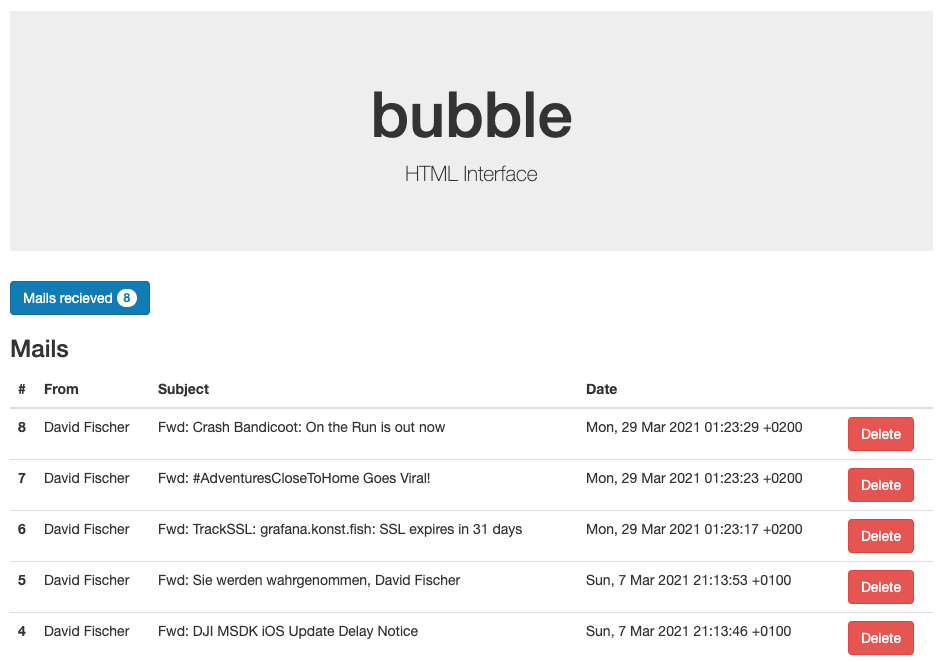
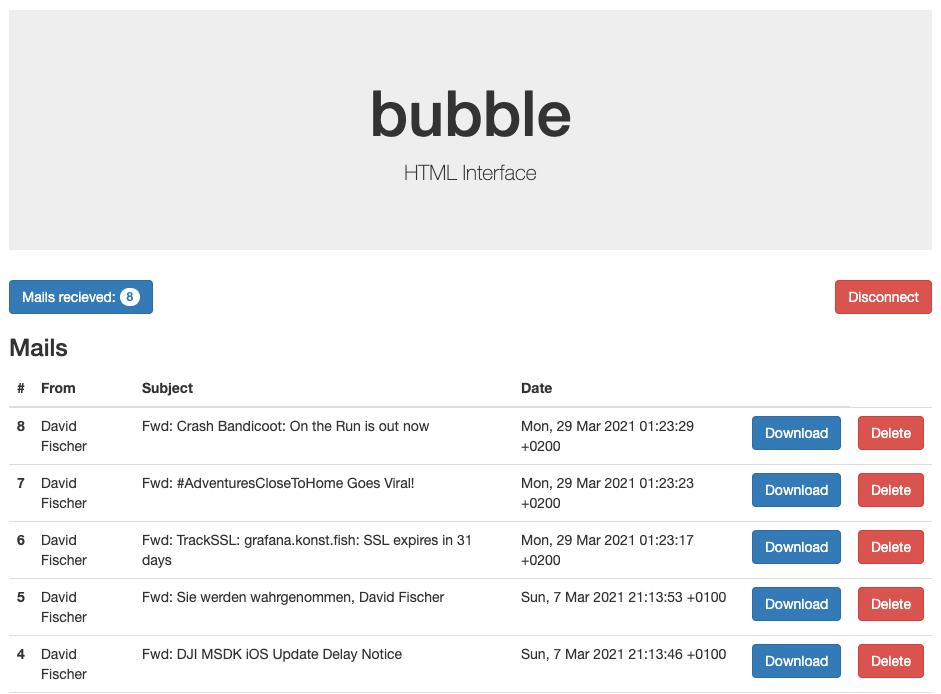
Update render.html (Add Download & Disconnect Buttons)

diff --git a/templates/render.html b/templates/render.html
@@ -15,10 +15,26 @@
   </style>
 
   <script>
-    function httpGet(url)
+    function del_mail(url)
     {
         var xmlHttp = new XMLHttpRequest();
         xmlHttp.open( "GET", "http://localhost:5001/del?mid="+url, false );
+        xmlHttp.send( null );
+        location.reload();
+    }
+
+    function dl_mail(url)
+    {
+        var xmlHttp = new XMLHttpRequest();
+        xmlHttp.open( "GET", "http://localhost:5001/dl?mid="+url, false );
+        xmlHttp.send( null );
+        alert("Downloaded Email with ID: " + url);
+    }
+
+    function disconnect()
+    {
+        var xmlHttp = new XMLHttpRequest();
+        xmlHttp.open( "GET", "http://localhost:5001/exit", false );
         xmlHttp.send( null );
         location.reload();
     }
@@ -32,7 +48,12 @@
 </div>
 
 <button type="button" class="btn btn-primary">
-  Mails recieved <span class="badge badge-light">{{ amount }}</span>
+  Mails recieved: <span class="badge badge-light">{{ amount }}</span>
+</button>
+
+
+<button style="float:right;" type="button" class="btn btn-danger" onclick="disconnect()">
+  Disconnect
 </button>
 
 <h3>Mails</h3>
@@ -54,7 +75,8 @@
     <td>{{ email.from }}</td>
     <td>{{ email.subject }}</td>
     <td>{{ email.date }}</td>
-    <td><button type="button" class="btn btn-danger" onclick="httpGet({{ email.message_id }})">Delete</button></td>
+    <td><button type="button" class="btn btn-primary" onclick="dl_mail({{ email.message_id }})">Download</button></td>
+    <td><button type="button" class="btn btn-danger" onclick="del_mail({{ email.message_id }})">Delete</button></td>
     </tr>
 ## endfor
 </tbody>

diff --git a/src/ProtoInterface.cpp b/src/ProtoInterface.cpp
@@ -28,6 +28,16 @@ int ProtoInterface::retrieve_message_meta_proto(int message_id, pop3msg::MailMet
     return 0;
 }
 
+int ProtoInterface::retrieve_message_meta_proto_dry(int message_id){
+    vector<string> res_vec = client.retrieve_message_metadata(message_id);
+
+    if(res_vec[0] == "MARKED FOR DELETION"){
+        return 1;
+    }
+
+    return 0;
+}
+
 int ProtoInterface::retrieve_messages(pop3msg::MailList *temp_mail_list, int amount){
     int total_messages = client.get_total_messages();
 
@@ -35,14 +45,15 @@ int ProtoInterface::retrieve_messages(pop3msg::MailList *temp_mail_list, int amo
         amount = total_messages;
     }
 
-    int retrieve = 0;
-
+    int retrieve{0};
     int check{0};
 
+
+    // dry run
     int cur_message = total_messages;
 
     while(cur_message > (total_messages - amount)){
-        check = retrieve_message_meta_proto(cur_message, temp_mail_list->add_mails());
+        check = retrieve_message_meta_proto_dry(cur_message);
 
         if(check){
             retrieve += 1;
@@ -51,11 +62,23 @@ int ProtoInterface::retrieve_messages(pop3msg::MailList *temp_mail_list, int amo
         cur_message -= 1;
     }
 
+    // run
+
+    // retrieve (overcompensate for deleted messages)
     int i = 1;
     while(i <= retrieve){
         retrieve_message_meta_proto((total_messages + i), temp_mail_list->add_mails());
 
         i += 1;
+    }
+
+    // run
+    cur_message = total_messages;
+
+    while(cur_message > (total_messages - amount)){
+        check = retrieve_message_meta_proto(cur_message, temp_mail_list->add_mails());
+
+        cur_message -= 1;
     }
 
     return 0;

diff --git a/http_server/src/main.cpp b/http_server/src/main.cpp
@@ -97,6 +97,30 @@ int main() {
         res.set_content("done", "text/plain");
     });
 
+    svr.Get("/dl", [&](const httplib::Request& req, httplib::Response& res) {
+        spdlog::get("console")->info("Serving /del");
+
+        auto id = req.get_param_value("mid");
+        
+        if(id == ""){
+            res.set_content("Invalid Request", "text/plain");   
+        }
+        
+        int arg_int = stoi(id);
+
+        pop3msg::Success suc = client.save_mail("dl", arg_int);
+
+        res.set_content("done", "text/plain");
+    });
+
+    svr.Get("/exit", [&](const httplib::Request& req, httplib::Response& res) {
+        spdlog::get("console")->info("Serving /exit");
+        
+        pop3msg::Success suc = client.disconnect("exit");
+
+        res.set_content("done", "text/plain");
+    });
+
     string http_srv_address = "127.0.0.1";
     int port = 5001;
 

diff --git a/include/ProtoInterface.h b/include/ProtoInterface.h
@@ -22,6 +22,8 @@ class ProtoInterface{
         ProtoInterface(POP3client &c):client( c ){};
 
         int retrieve_message_meta_proto(int message_id, pop3msg::MailMeta *temp_mail_meta);
+        int retrieve_message_meta_proto_dry(int message_id);
+        
         int retrieve_messages(pop3msg::MailList *ml, int amount);
 
         int delete_message(pop3msg::Success *suc, int message_id);
